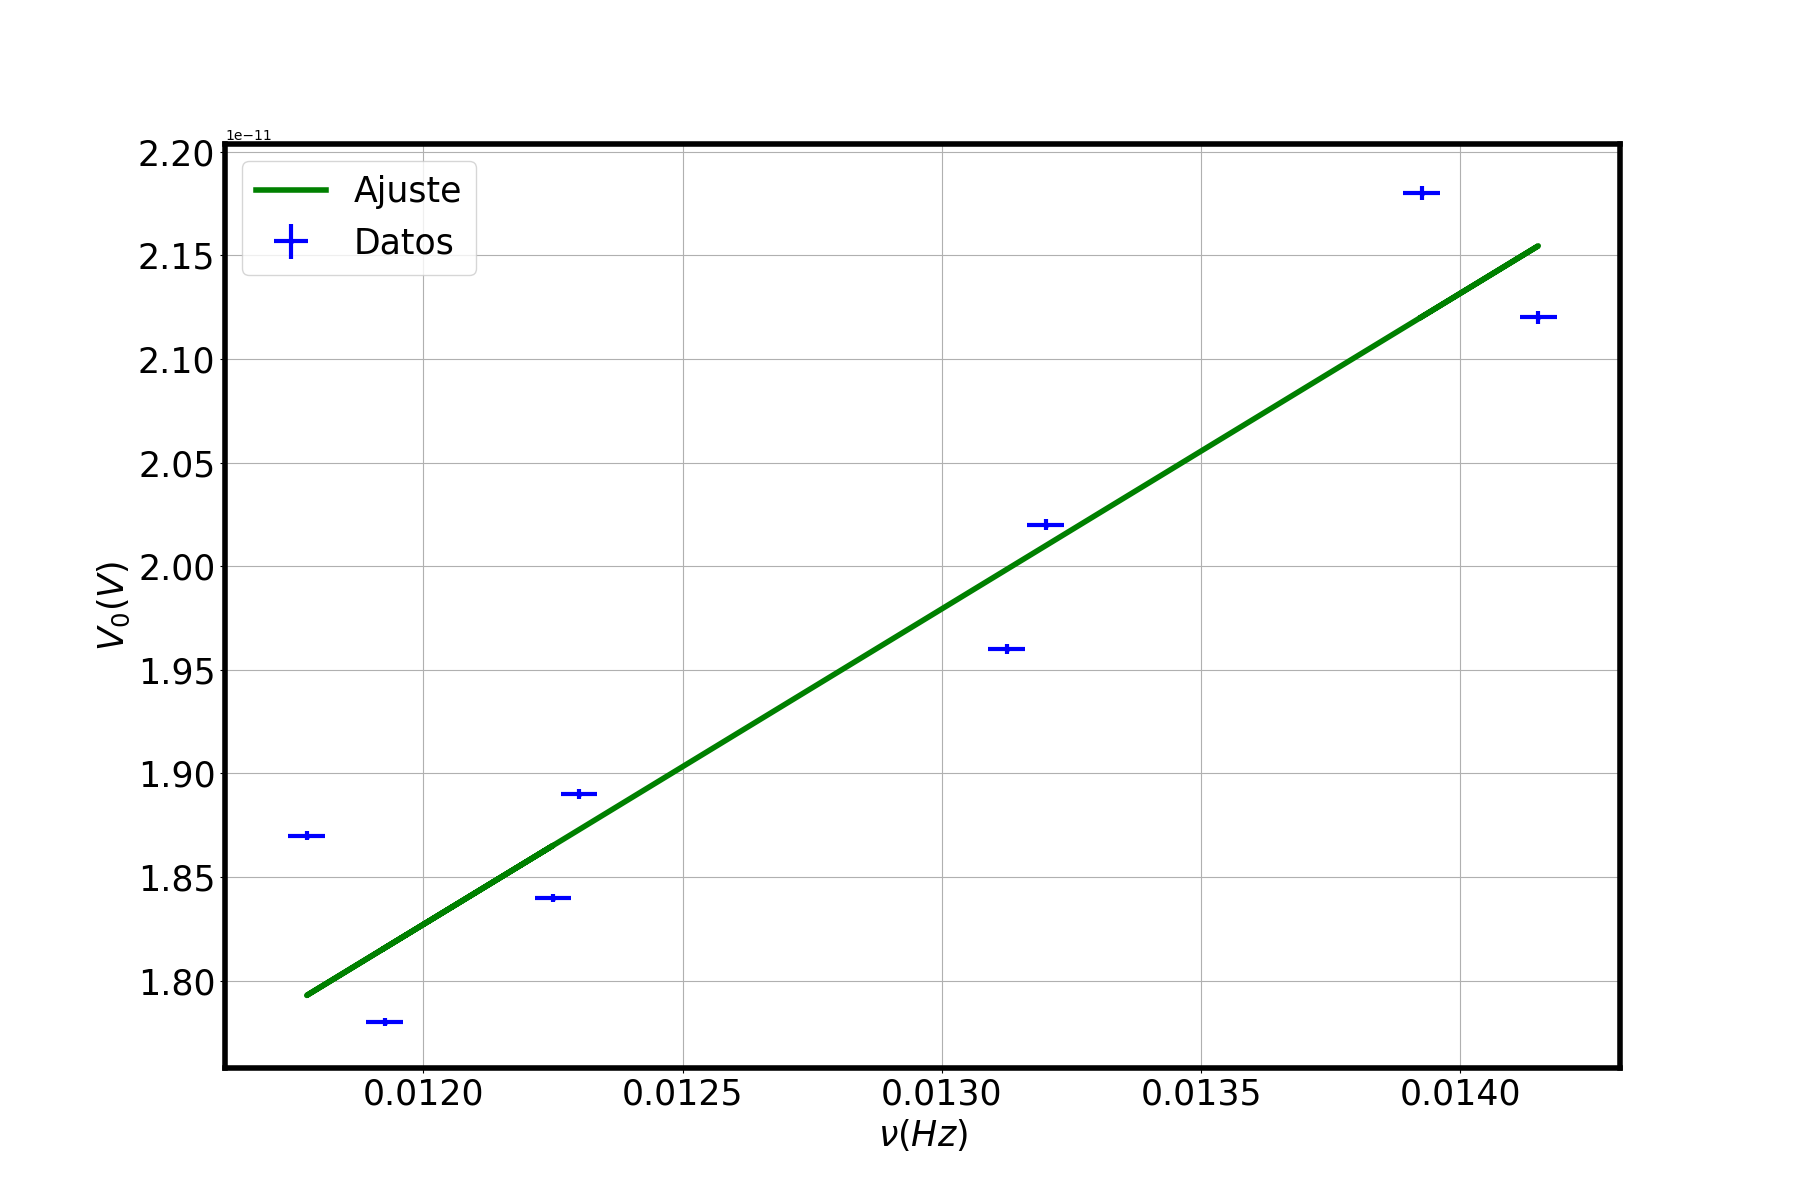
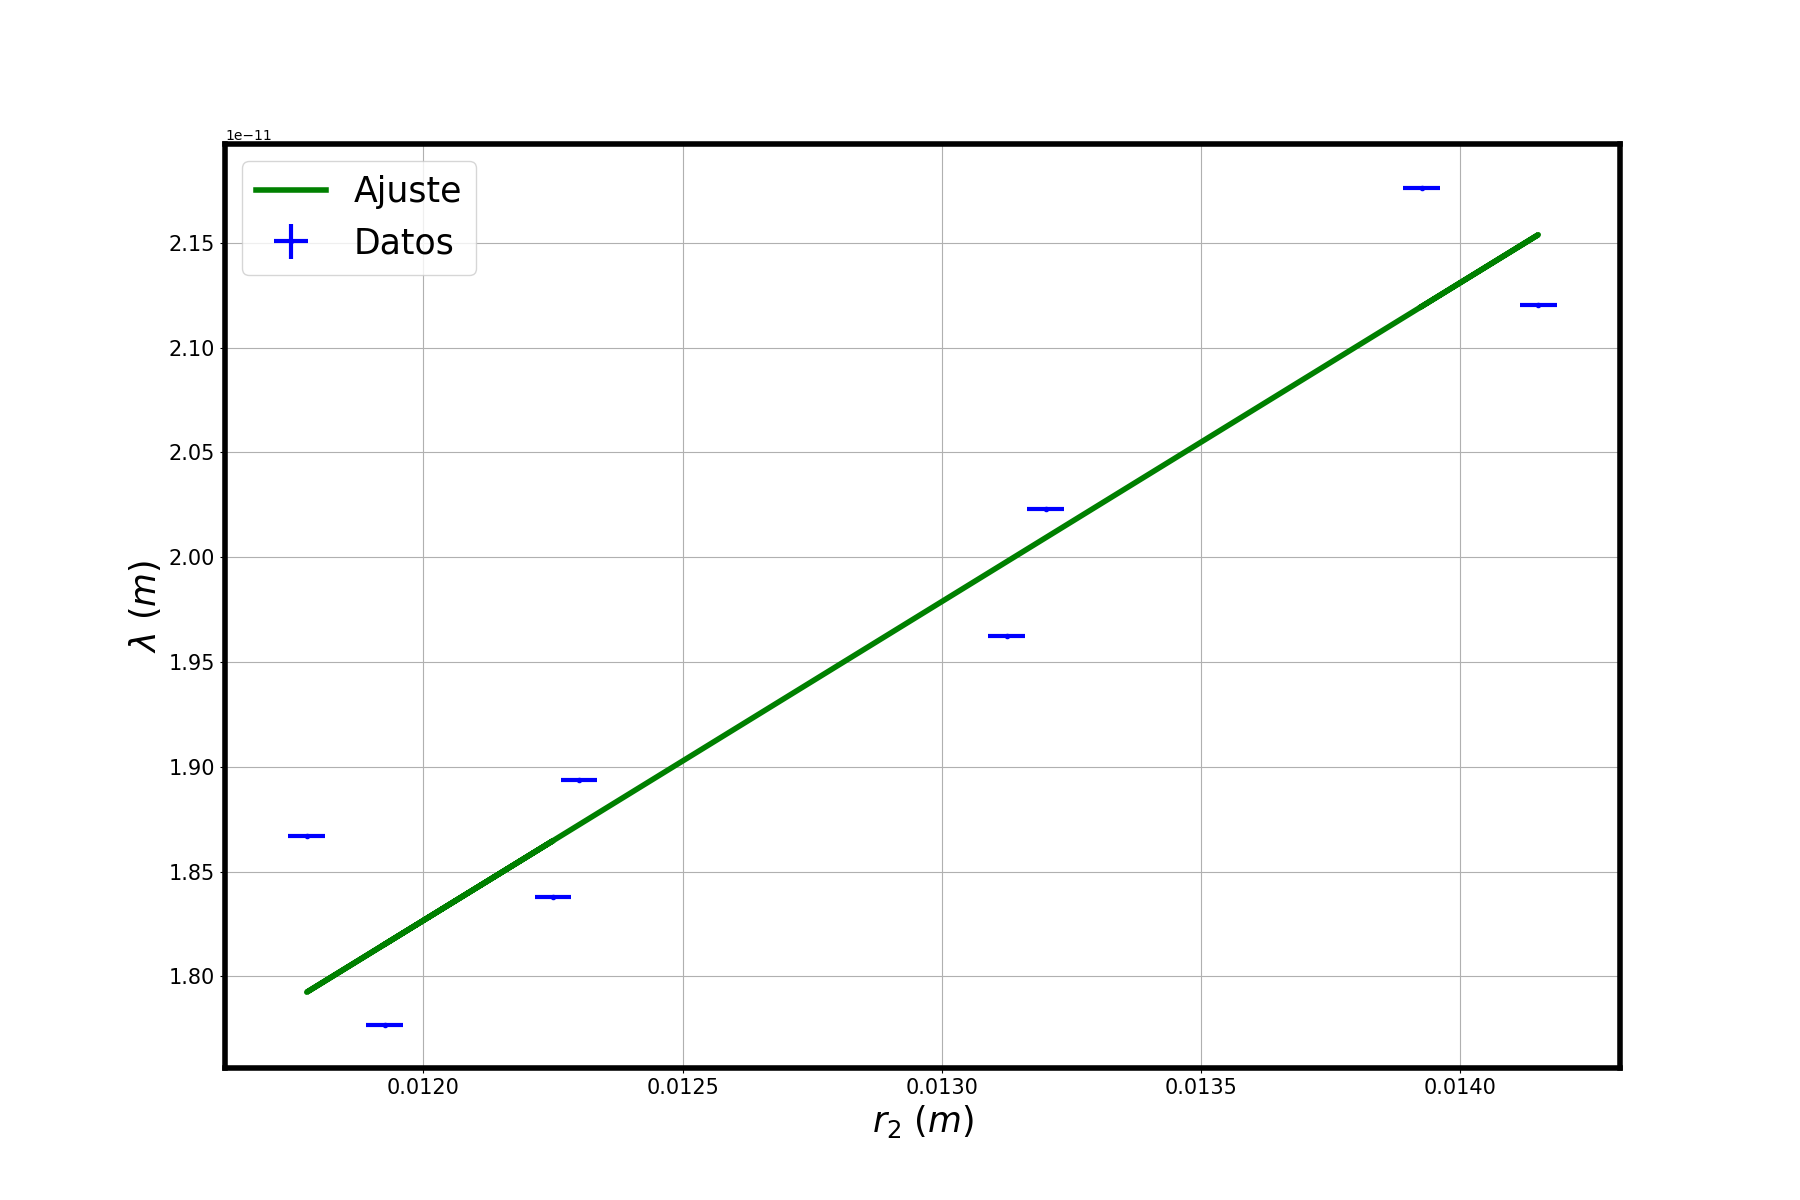
Cuantica

diff --git a/Informes/Cuántica/P3/ProgramasUtiles.py b/Informes/Cuántica/P3/ProgramasUtiles.py
@@ -117,8 +117,8 @@ while opcion != '0':
         plt.plot(data.x, y_pred, 'g-', label='Ajuste',linewidth=4.0)
 
 
-        plt.xlabel(r'$\nu (Hz)$',fontsize=25)
-        plt.ylabel(r'$V_0 (V)$',fontsize=25)
+        plt.xlabel(r'$r_2$ $(m)$',fontsize=25)
+        plt.ylabel(r'$\lambda$ $(m)$',fontsize=25)
         plt.legend(loc='best',fontsize=25)
         plt.grid()
 
@@ -127,8 +127,8 @@ while opcion != '0':
             ax.spines[axis].set_linewidth(4)
 
         # Con estas líneas podemos dar formato a los "ticks" de los ejes:
-        plt.tick_params(axis="x", labelsize=25, labelrotation=0, labelcolor="black")
-        plt.tick_params(axis="y", labelsize=25, labelrotation=0, labelcolor="black")
+        plt.tick_params(axis="x", labelsize=15, labelrotation=0, labelcolor="black")
+        plt.tick_params(axis="y", labelsize=15, labelrotation=0, labelcolor="black")
 
         # Aquí dibuja el gráfico que hemos definido.
         plt.savefig(nombre_graf)

diff --git a/Informes/Cuántica/P2/Prog.py b/Informes/Cuántica/P2/Prog.py
@@ -1,0 +1,8 @@
+import pandas as pd
+import numpy as np
+import matplotlib.pyplot as plt
+
+
+nombre_archivo = 'datos_experimento.csv'
+
+data = pd.read_csv(nombre_archivo, delimiter=',', header=0, names=['x', 'y', 'dx', 'dy'])
